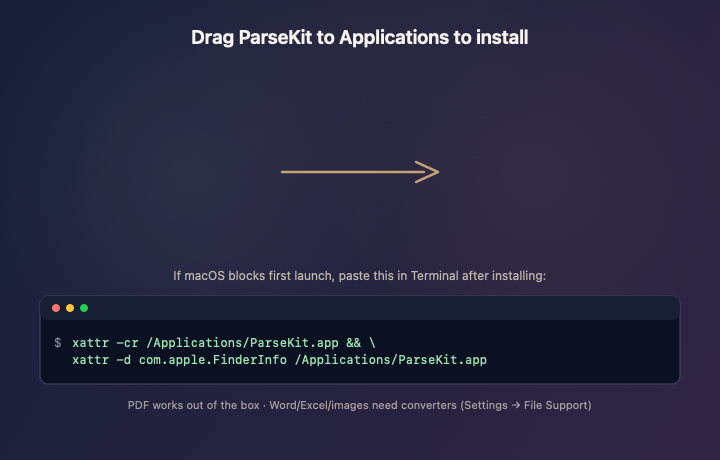
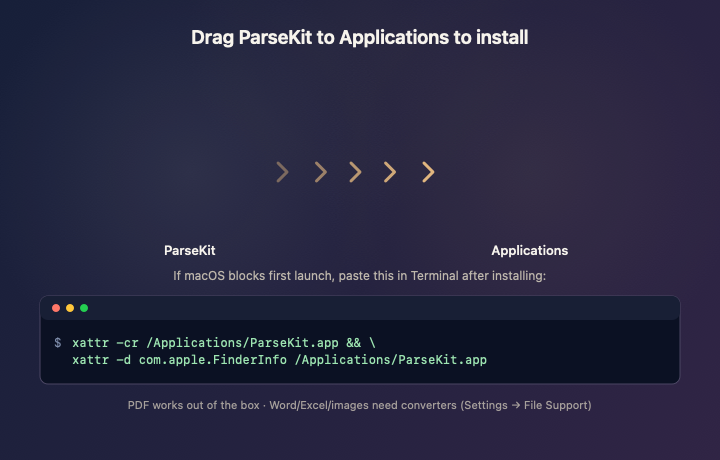
Polish DMG labels and drag cue alignment
Hide Finder's low-contrast icon labels and bake white "ParseKit" and
"Applications" text into the background beneath the icon wells. Recompute
chevron positions from actual icon geometry so the drag cue spans the gap
between icons at vertical center (y=172).

Changed region(s): [[0.3667, 0.3348, 0.6111, 0.3957], [0.6722, 0.5174, 0.7944, 0.5783], [0.2139, 0.5174, 0.3056, 0.5783]]

diff --git a/scripts/dmg/GenerateBackground.swift b/scripts/dmg/GenerateBackground.swift
@@ -134,27 +134,58 @@ func drawBackground(scale: CGFloat) -> NSBitmapImageRep? {
     )
   }
 
-  func drawDragArrow(from startX: CGFloat, to endX: CGFloat, y: CGFloat) {
-    let s = scale
-    let cy = topY(y, scale: 1) * scale
-    let sx = startX * s
-    let ex = endX * s
-    gold.withAlphaComponent(0.85).setStroke()
-    let shaft = NSBezierPath()
-    shaft.lineWidth = 2.5 * s
-    shaft.lineCapStyle = .round
-    shaft.move(to: NSPoint(x: sx, y: cy))
-    shaft.line(to: NSPoint(x: ex - 14 * s, y: cy))
-    shaft.stroke()
+  func drawIconLabel(_ text: String, centerX: CGFloat, yFromTop: CGFloat) {
+    let paragraph = NSMutableParagraphStyle()
+    paragraph.alignment = .center
+    let font = NSFont.systemFont(ofSize: 13 * scale, weight: .medium)
+    let attrs: [NSAttributedString.Key: Any] = [
+      .font: font,
+      .foregroundColor: ivory,
+      .paragraphStyle: paragraph,
+    ]
+    let w: CGFloat = 140 * scale
+    let h: CGFloat = 18 * scale
+    let rect = NSRect(
+      x: (centerX * scale) - (w / 2),
+      y: topY(yFromTop + 18, scale: 1) * scale,
+      width: w,
+      height: h
+    )
+    (text as NSString).draw(
+      with: rect,
+      options: [.usesLineFragmentOrigin, .usesFontLeading],
+      attributes: attrs
+    )
+  }
 
-    let head = NSBezierPath()
-    head.lineWidth = 2.5 * s
-    head.lineCapStyle = .round
-    head.lineJoinStyle = .round
-    head.move(to: NSPoint(x: ex - 22 * s, y: cy + 10 * s))
-    head.line(to: NSPoint(x: ex, y: cy))
-    head.line(to: NSPoint(x: ex - 22 * s, y: cy - 10 * s))
-    head.stroke()
+  func drawDragChevron(at x: CGFloat, y: CGFloat, opacity: CGFloat) {
+    let s = scale
+    let cx = x * s
+    let cy = topY(y, scale: 1) * scale
+    gold.withAlphaComponent(opacity).setStroke()
+    let path = NSBezierPath()
+    path.lineWidth = 3 * s
+    path.lineCapStyle = .round
+    path.lineJoinStyle = .round
+    path.move(to: NSPoint(x: cx - 9 * s, y: cy + 9 * s))
+    path.line(to: NSPoint(x: cx, y: cy))
+    path.line(to: NSPoint(x: cx - 9 * s, y: cy - 9 * s))
+    path.stroke()
+  }
+
+  func drawDragCueBetweenIcons() {
+    // Icon top-left (126,108), size 128 → centers (190,172) and (530,172).
+    let iconSize: CGFloat = 128
+    let gapStart = parseKitCenter.x + iconSize / 2 + 10
+    let gapEnd = applicationsCenter.x - iconSize / 2 - 10
+    let chevronY = parseKitCenter.y
+    let chevronXs: [CGFloat] = [0.12, 0.32, 0.5, 0.68, 0.88].map {
+      gapStart + (gapEnd - gapStart) * $0
+    }
+    let opacities: [CGFloat] = [0.45, 0.62, 0.78, 0.9, 1.0]
+    for (x, opacity) in zip(chevronXs, opacities) {
+      drawDragChevron(at: x, y: chevronY, opacity: opacity)
+    }
   }
 
   let primaryFont = NSFont.systemFont(ofSize: 19 * scale, weight: .semibold)
@@ -172,8 +203,10 @@ func drawBackground(scale: CGFloat) -> NSBitmapImageRep? {
     height: 28
   )
 
-  // Leave icon zones empty — Finder draws icons + labels. No wells/capsules.
-  drawDragArrow(from: 282, to: 438, y: 172)
+  // Finder draws icons only (shows item info = false); labels baked in white below.
+  drawDragCueBetweenIcons()
+  drawIconLabel("ParseKit", centerX: parseKitCenter.x, yFromTop: 242)
+  drawIconLabel("Applications", centerX: applicationsCenter.x, yFromTop: 242)
 
   drawCenteredText(
     "If macOS blocks first launch, paste this in Terminal after installing:",